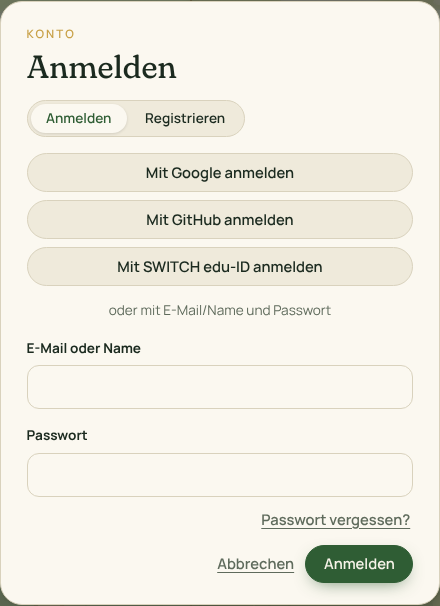
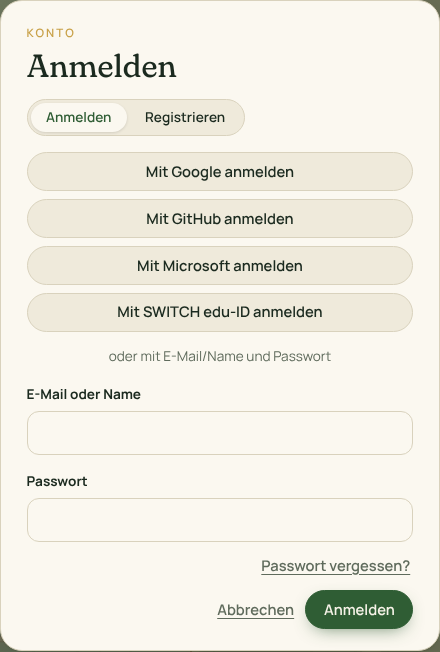
Sign in with Microsoft accounts
- Provider "microsoft" (MICROSOFT_CLIENT_ID / _SECRET, MICROSOFT_TENANT:
  common by default, or consumers, organizations, a tenant id).
- The profile comes from the ID token, received directly from the token
  endpoint over TLS; audience, expiry, issuer (login.microsoftonline.com
  with the token's tenant) and, with a fixed tenant, the tenant are checked.
- Microsoft sends no email_verified, and other tenants' admins can set any
  address (nOAuth): an address counts as verified only with the optional
  claim xms_edov (true, 1, "1"). Without it, Microsoft cannot create an
  account, only be linked to an existing one.
- Tests with a fake token endpoint (personal account, unverified work
  address, another app's token, wrong issuer, fixed tenant); docs with the
  app registration and the optional claims; login and menu screenshots.

Claude-Session: https://claude.ai/code/session_01W6iS2cPESEYEc9zQfDGaR4

diff --git a/src/oauth.js b/src/oauth.js
@@ -13,6 +13,14 @@
  *   (`<issuer>/.well-known/openid-configuration`, fetched once and checked
  *   against the configured issuer), the profile from its userinfo endpoint.
  *   An address counts as verified only with `email_verified: true`.
+ * - Microsoft (personal, work and school accounts): the profile comes from
+ *   the ID token, received directly from the token endpoint over TLS (so,
+ *   as OpenID Connect allows, without checking its signature; audience,
+ *   expiry, issuer and tenant are checked). Microsoft sends no
+ *   `email_verified`, and in other tenants anybody can enter any address
+ *   ("nOAuth"): the address counts as verified only with the optional claim
+ *   `xms_edov` (domain owner verified), which the app registration has to
+ *   add to the ID token together with `email`.
  *
  * A provider is enabled when its client ID and secret are configured. The
  * `state` and the PKCE verifier travel in a short-lived httpOnly cookie bound
@@ -82,6 +90,47 @@ Object.assign(PROVIDERS, {
   oidc: { label: 'OpenID Connect', scope: 'openid email profile', profile: oidcProfile },
 });
 
+const truthy = (v) => v === true || v === 1 || v === '1' || v === 'true';
+
+/** Profile from Microsoft's ID token; throws when the token does not belong to this app and tenant. */
+function microsoftProfile(token, get, provider, tokens) {
+  const parts = String(tokens?.id_token || '').split('.');
+  let c;
+  try {
+    c = JSON.parse(Buffer.from(parts[1] || '', 'base64url').toString('utf8'));
+  } catch {
+    throw new Error('Microsoft hat kein gültiges ID-Token geliefert');
+  }
+  const iss = /^https:\/\/login\.microsoftonline\.com\/([0-9a-f-]{36})\/v2\.0$/.exec(String(c.iss || ''));
+  const aud = Array.isArray(c.aud) ? c.aud : [c.aud];
+  const tenantFixed = /^[0-9a-f-]{36}$/.test(provider.tenant);
+  if (!iss || iss[1] !== c.tid || !aud.includes(provider.clientId) || !(Number(c.exp) * 1000 > Date.now() - 60_000)
+    || (tenantFixed && c.tid !== provider.tenant)) {
+    throw new Error('Microsoft hat ein ID-Token für eine andere Anwendung oder Organisation geliefert');
+  }
+  const email = c.email || null;
+  return {
+    subject: c.sub === undefined ? null : String(c.sub),
+    email,
+    emailVerified: Boolean(email) && truthy(c.xms_edov),
+    name: c.name || c.preferred_username || null,
+  };
+}
+
+// Microsoft: endpoints per tenant ('common' = personal and organisation accounts, 'organizations',
+// 'consumers' or one tenant's id).
+PROVIDERS.microsoft = {
+  label: 'Microsoft',
+  tenant: 'common',
+  scope: 'openid email profile',
+  extraParams: { prompt: 'select_account' },
+  urls: (p) => ({
+    authorizeUrl: `https://login.microsoftonline.com/${encodeURIComponent(p.tenant)}/oauth2/v2.0/authorize`,
+    tokenUrl: `https://login.microsoftonline.com/${encodeURIComponent(p.tenant)}/oauth2/v2.0/token`,
+  }),
+  profile: microsoftProfile,
+};
+
 const base64url = (buf) => Buffer.from(buf).toString('base64url');
 const sameIssuer = (a, b) => String(a || '').replace(/\/+$/, '') === String(b || '').replace(/\/+$/, '');
 
@@ -96,6 +145,7 @@ function createOAuth({ providers = {}, publicUrl = null, fetchImpl = fetch } = {
     if (!PROVIDERS[id] || !conf?.clientId || !conf?.clientSecret) continue;
     const p = { ...PROVIDERS[id], ...Object.fromEntries(Object.entries(conf).filter(([, v]) => v)), id };
     if (p.profile === oidcProfile && !p.issuer && !p.authorizeUrl) continue; // a generic provider needs its issuer
+    if (p.urls && !conf.authorizeUrl) Object.assign(p, p.urls(p));
     enabled[id] = p;
   }
 
@@ -198,7 +248,7 @@ function createOAuth({ providers = {}, publicUrl = null, fetchImpl = fetch } = {
       if (!res.ok || !tokens.access_token) {
         throw new Error(`${provider.label} hat die Anmeldung nicht bestätigt${tokens.error ? ` (${tokens.error})` : ''}`);
       }
-      const profile = await ep.profile(tokens.access_token, getJson, ep);
+      const profile = await ep.profile(tokens.access_token, getJson, ep, tokens);
       if (!profile.subject || profile.subject === 'undefined') throw new Error(`${provider.label} hat kein Konto geliefert`);
       return profile;
     },
@@ -206,9 +256,10 @@ function createOAuth({ providers = {}, publicUrl = null, fetchImpl = fetch } = {
 }
 
 /**
- * Provider configuration from the environment: GOOGLE_, GITHUB_, EDUID_ and
- * OIDC_CLIENT_ID / _CLIENT_SECRET; the generic provider also takes
- * OIDC_ISSUER and OIDC_LABEL (and EDUID_ISSUER may point to a test system).
+ * Provider configuration from the environment: GOOGLE_, GITHUB_, MICROSOFT_,
+ * EDUID_ and OIDC_CLIENT_ID / _CLIENT_SECRET; the generic provider also takes
+ * OIDC_ISSUER and OIDC_LABEL (EDUID_ISSUER may point to a test system), and
+ * MICROSOFT_TENANT limits the accounts (default 'common').
  */
 function providersFromEnv(env = process.env) {
   const out = {};
@@ -220,6 +271,7 @@ function providersFromEnv(env = process.env) {
         clientSecret: env[`${key}_CLIENT_SECRET`],
         issuer: env[`${key}_ISSUER`] || undefined,
         label: env[`${key}_LABEL`] || undefined,
+        tenant: env[`${key}_TENANT`] || undefined,
       };
     }
   }

diff --git a/test/oauth.test.js b/test/oauth.test.js
@@ -295,3 +295,61 @@ test('generic OpenID Connect provider from issuer and label; a wrong issuer is r
     assert.match(new URL(start.headers.get('location'), base).searchParams.get('auth_error'), /anderen Aussteller/);
   }, { providers, fetch: fakeOidc('https://login.example.org/realms/wald', { reportedIssuer: 'https://evil.example/' }) });
 });
+
+/** A fake Microsoft token endpoint that returns an (unsigned) ID token with the account's claims. */
+function fakeMicrosoft(claimsOf) {
+  const json = (body, status = 200) => new Response(JSON.stringify(body), { status, headers: { 'Content-Type': 'application/json' } });
+  const jwt = (claims) => ['{"alg":"RS256"}', JSON.stringify(claims), 'sig'].map((p, i) => (i < 2 ? Buffer.from(p).toString('base64url') : p)).join('.');
+  return (accounts, challenges) => async (url, init = {}) => {
+    const u = new URL(url);
+    if (u.host !== 'login.microsoftonline.com' || !u.pathname.endsWith('/oauth2/v2.0/token')) return json({}, 404);
+    const body = new URLSearchParams(init.body);
+    const challenge = crypto.createHash('sha256').update(body.get('code_verifier') || '').digest('base64url');
+    if (!claimsOf[body.get('code')] || !challenges.has(challenge) || body.get('client_secret') !== 'msecret') return json({ error: 'invalid_grant' }, 400);
+    return json({ access_token: 'at', id_token: jwt(claimsOf[body.get('code')]) });
+  };
+}
+
+const TENANT = '72f988bf-86f1-41af-91ab-2d7cd011db47';
+const CONSUMERS = '9188040d-6c67-4c5b-b112-36a304b66dad';
+const exp = () => Math.floor(Date.now() / 1000) + 600;
+const ms = (over) => ({ iss: `https://login.microsoftonline.com/${over.tid || CONSUMERS}/v2.0`, tid: CONSUMERS, aud: 'mid', exp: exp(), ...over });
+const MS = {
+  outlook: ms({ sub: 'ms-1', email: 'mia@outlook.com', name: 'Mia Bach', xms_edov: '1' }),
+  work: ms({ sub: 'ms-2', tid: TENANT, email: 'ceo@bank.example', name: 'Fremd', iss: `https://login.microsoftonline.com/${TENANT}/v2.0` }),
+  otherApp: ms({ sub: 'ms-3', email: 'x@outlook.com', aud: 'someone-else', xms_edov: true }),
+  wrongIss: ms({ sub: 'ms-4', email: 'y@outlook.com', xms_edov: true, iss: 'https://evil.example/v2.0' }),
+};
+
+test('Microsoft: profile from the ID token; only xms_edov makes the address verified', async () => {
+  const providers = { microsoft: { clientId: 'mid', clientSecret: 'msecret' } };
+  await withServer(MS, async (base, challenges) => {
+    const b = browser(base);
+    const start = await b.req('/api/auth/oauth/microsoft');
+    const auth = new URL(start.headers.get('location'));
+    assert.equal(auth.origin + auth.pathname, 'https://login.microsoftonline.com/common/oauth2/v2.0/authorize');
+
+    assert.equal((await b.signIn('microsoft', 'outlook', challenges)).searchParams.get('auth'), 'created');
+    const me = await b.me();
+    assert.equal(me.user.email, 'mia@outlook.com');
+    assert.equal(me.user.emailVerified, true);
+    assert.deepEqual(me.user.identities, ['microsoft']);
+
+    // An address set by some tenant's admin, without xms_edov: no account (nOAuth).
+    assert.match((await browser(base).signIn('microsoft', 'work', challenges)).searchParams.get('auth_error'), /bestätigte E-Mail/);
+    // Tokens for another app or from another issuer are refused.
+    assert.match((await browser(base).signIn('microsoft', 'otherApp', challenges)).searchParams.get('auth_error'), /andere Anwendung/);
+    assert.match((await browser(base).signIn('microsoft', 'wrongIss', challenges)).searchParams.get('auth_error'), /andere Anwendung/);
+  }, { providers, fetch: fakeMicrosoft(MS) });
+});
+
+test('Microsoft with a fixed tenant accepts only accounts of that organisation', async () => {
+  const providers = { microsoft: { clientId: 'mid', clientSecret: 'msecret', tenant: TENANT } };
+  const claims = { ...MS, work: { ...MS.work, xms_edov: 1 } };
+  await withServer(claims, async (base, challenges) => {
+    const start = await browser(base).req('/api/auth/oauth/microsoft');
+    assert.match(start.headers.get('location'), new RegExp(`/${TENANT}/oauth2/v2.0/authorize`));
+    assert.equal((await browser(base).signIn('microsoft', 'work', challenges)).searchParams.get('auth'), 'created');
+    assert.match((await browser(base).signIn('microsoft', 'outlook', challenges)).searchParams.get('auth_error'), /andere Anwendung oder Organisation/);
+  }, { providers, fetch: fakeMicrosoft(claims) });
+});

diff --git a/scripts/screenshots/demo-server.js b/scripts/screenshots/demo-server.js
@@ -104,10 +104,11 @@ const app = createApp({
   dataDir: path.join(process.env.DEMO_DIR || path.join(__dirname, '.demo'), 'data'),
   weatherFetch,
   tileOptions: { precompute: false },
-  // Sign-in buttons for the screenshots; the demo never talks to Google, GitHub or Switch.
+  // Sign-in buttons for the screenshots; the demo never talks to Google, GitHub, Microsoft or Switch.
   oauthProviders: {
     google: { clientId: 'demo', clientSecret: 'demo' },
     github: { clientId: 'demo', clientSecret: 'demo' },
+    microsoft: { clientId: 'demo', clientSecret: 'demo' },
     eduid: { clientId: 'demo', clientSecret: 'demo' },
   },
   mailer: { send: async () => ({ sent: true }) },

diff --git a/docs/installation.md b/docs/installation.md
@@ -48,8 +48,9 @@ trotzdem am richtigen Spot, nur ohne Overlay.
 | `REQUIRE_VERIFIED_EMAIL` | – | `1`: Uploads und Änderungen nur mit bestätigter E-Mail-Adresse (schliesst `REQUIRE_LOGIN` ein) |
 | `SMTP_URL`         | –        | Mailserver für Bestätigungslinks, z. B. `smtps://user:passwort@smtp.example.org` (siehe [unten](#e-mail-versand)); ohne ihn stehen die Links im Server-Log |
 | `MAIL_FROM`        | `MyForrest <no-reply@…>` | Absender der E-Mails |
-| `GOOGLE_CLIENT_ID`, `GOOGLE_CLIENT_SECRET` | – | Aktiviert „Mit Google anmelden“ (siehe [unten](#anmelden-über-google-github-und-switch-edu-id)) |
+| `GOOGLE_CLIENT_ID`, `GOOGLE_CLIENT_SECRET` | – | Aktiviert „Mit Google anmelden“ (siehe [unten](#anmelden-über-google-github-microsoft-und-switch-edu-id)) |
 | `GITHUB_CLIENT_ID`, `GITHUB_CLIENT_SECRET` | – | Aktiviert „Mit GitHub anmelden“ |
+| `MICROSOFT_CLIENT_ID`, `MICROSOFT_CLIENT_SECRET` | – | Aktiviert „Mit Microsoft anmelden“; `MICROSOFT_TENANT` (Standard `common`) schränkt ein: `consumers` (nur private Konten), `organizations` oder die ID eines Tenants |
 | `EDUID_CLIENT_ID`, `EDUID_CLIENT_SECRET` | – | Aktiviert „Mit SWITCH edu-ID anmelden“; `EDUID_ISSUER` (Standard `https://login.eduid.ch/`) für ein Testsystem |
 | `OIDC_ISSUER`, `OIDC_CLIENT_ID`, `OIDC_CLIENT_SECRET`, `OIDC_LABEL` | – | Ein weiterer OpenID-Connect-Dienst (z. B. Microsoft Entra ID einer Organisation, Keycloak) mit eigener Beschriftung |
 | `ROUTER_URL`       | `https://brouter.de/brouter` | Routing-Dienst im Format von [BRouter](https://brouter.de) für den Wege-Magnet beim Zeichnen von Touren; leer (`ROUTER_URL=`) = aus, dann gerade Linien. Für den Betrieb einen [eigenen BRouter](../deploy/brouter/README.md) nehmen, z. B. `http://brouter:17777/brouter` |
@@ -81,10 +82,10 @@ MAIL_FROM='MyForrest <wald@example.org>' npm start
 - Mit `REQUIRE_VERIFIED_EMAIL=1` können nur Konten mit bestätigter Adresse Fotos beitragen und ändern.
   Konten aus der Zeit vor dieser Funktion fordern ihren Link im Konto-Menü an.
 
-## Anmelden über Google, GitHub und SWITCH edu-ID
+## Anmelden über Google, GitHub, Microsoft und SWITCH edu-ID
 
 Neben E-Mail und Passwort kann man sich mit einem Google-, GitHub- oder SWITCH-edu-ID-Konto anmelden oder
-registrieren, und mit einem weiteren Dienst, der OpenID Connect spricht.
+registrieren, mit einem Microsoft-Konto und mit einem weiteren Dienst, der OpenID Connect spricht.
 Ein Anbieter erscheint im Anmeldedialog, sobald Client-ID und Secret gesetzt sind. Die Rücksprungadresse
 lautet `<PUBLIC_URL>/api/auth/oauth/<anbieter>/callback`; ohne `PUBLIC_URL` wird sie aus der Anfrage
 gebildet. Sie muss beim Anbieter genau so eingetragen sein.
@@ -94,6 +95,15 @@ gebildet. Sie muss beim Anbieter genau so eingetragen sein.
   `https://example.org/api/auth/oauth/google/callback` eintragen. Bereiche: `openid`, `email`, `profile`.
 - *GitHub*: Unter *Settings → Developer settings → [OAuth Apps](https://github.com/settings/developers)*
   eine App anlegen, *Authorization callback URL* `https://example.org/api/auth/oauth/github/callback`.
+- *Microsoft* (Outlook, Hotmail, Live sowie Arbeits- und Schulkonten): Im
+  [Microsoft Entra Admin Center](https://entra.microsoft.com) unter *App-Registrierungen* eine App anlegen,
+  Kontotypen „Konten in einem beliebigen Organisationsverzeichnis und persönliche Microsoft-Konten“ (oder enger,
+  passend zu `MICROSOFT_TENANT`), Umleitungs-URI (Web) `https://example.org/api/auth/oauth/microsoft/callback`,
+  unter *Zertifikate & Geheimnisse* ein Client-Secret. **Wichtig:** Unter *Tokenkonfiguration → Optionalen
+  Anspruch hinzufügen → ID* die Ansprüche `email` und `xms_edov` hinzufügen (eine Warnung, `xms_edov` sei
+  unbekannt, lässt sich ignorieren). Microsoft liefert kein `email_verified`, und in fremden Tenants kann ein
+  Admin beliebige Adressen eintragen („nOAuth“); als bestätigt gilt eine Adresse deshalb nur mit
+  `xms_edov`. Ohne diesen Anspruch entsteht über Microsoft kein neues Konto, Verknüpfen geht aber.
 - *SWITCH edu-ID* (Hochschulen, Forschung, aber für alle offen): Den Dienst in der
   [SWITCH Resource Registry](https://rr.aai.switch.ch/) als OpenID-Connect-Client registrieren, Redirect-URI
   `https://example.org/api/auth/oauth/eduid/callback`, Claims *E-Mail* (mit `email_verified`) und *Name* als
@@ -103,13 +113,14 @@ gebildet. Sie muss beim Anbieter genau so eingetragen sein.
 - *Weitere Dienste* (`OIDC_…`): `OIDC_ISSUER` ist die Adresse, unter der
   `/.well-known/openid-configuration` liegt; `OIDC_LABEL` steht auf dem Knopf („Mit … anmelden“).
   Redirect-URI `https://example.org/api/auth/oauth/oidc/callback`. Ein neues Konto entsteht nur mit
-  `email_verified: true`; Dienste, die das nicht liefern (etwa Microsoft Entra ID), lassen sich trotzdem mit
-  einem bestehenden Konto verknüpfen und dann zum Anmelden nutzen.
+  `email_verified: true`; Dienste, die das nicht liefern, lassen sich trotzdem mit einem bestehenden Konto
+  verknüpfen und dann zum Anmelden nutzen. Für Microsoft den eigenen Anbieter oben nehmen.
 
 ```bash
 PUBLIC_URL=https://example.org \
 GOOGLE_CLIENT_ID=… GOOGLE_CLIENT_SECRET=… \
 GITHUB_CLIENT_ID=… GITHUB_CLIENT_SECRET=… \
+MICROSOFT_CLIENT_ID=… MICROSOFT_CLIENT_SECRET=… \
 EDUID_CLIENT_ID=… EDUID_CLIENT_SECRET=… npm start
 ```
 

diff --git a/README.md b/README.md
@@ -259,7 +259,7 @@ leitet die **Organisation** und nimmt Kolleginnen und Kollegen auf; wer noch kei
 **Einladung per E-Mail** und registriert sich über den Link. Mitglieder sehen geschützte Funde, solange eine
 Person der Leitung verifiziert ist, und die Leitung lässt sich weitergeben.
 
-### 12. Konto: E-Mail, Google, GitHub oder SWITCH edu-ID
+### 12. Konto: E-Mail, Google, GitHub, Microsoft oder SWITCH edu-ID
 
 <p>
   <img src="docs/screenshots/anmelden.png" width="38%" alt="Anmeldedialog mit Google, GitHub und E-Mail">
@@ -267,10 +267,10 @@ Person der Leitung verifiziert ist, und die Leitung lässt sich weitergeben.
   <img src="docs/screenshots/konto-loeschen.png" width="38%" alt="Konto löschen mit der Wahl, die Fotos anonym zu behalten oder zu löschen">
 </p>
 
-Ein **Konto** legt man mit E-Mail und Passwort an oder mit einem Klick über **Google**, **GitHub** oder **SWITCH edu-ID**
+Ein **Konto** legt man mit E-Mail und Passwort an oder mit einem Klick über **Google**, **GitHub**, **Microsoft** oder **SWITCH edu-ID**
 (links). Nach der Registrierung kommt ein **Bestätigungslink** per E-Mail; bis dahin erinnert das Konto-Menü
 daran (Mitte). Ein vergessenes Passwort lässt sich per Link **zurücksetzen**, im Menü **ändern**, und
-Google, GitHub oder SWITCH edu-ID lassen sich mit einem bestehenden Konto **verknüpfen**. Wer geht, **löscht das Konto**
+Google, GitHub, Microsoft oder SWITCH edu-ID lassen sich mit einem bestehenden Konto **verknüpfen**. Wer geht, **löscht das Konto**
 selbst und entscheidet dabei, ob die eigenen Fotos anonym bleiben oder mitgelöscht werden (rechts). Uploads ohne Konto bleiben
 möglich, ausser der Betrieb verlangt eines (`REQUIRE_LOGIN`) oder eine bestätigte Adresse
 (`REQUIRE_VERIFIED_EMAIL`).
@@ -321,7 +321,7 @@ Ein kurzer Überblick. Alle Details, auch zu den verwendeten Verfahren, stehen u
   Organisationen nehmen ihre Mitglieder selbst auf.
 - **[Fahrtmodus](docs/funktionen.md#fahrtmodus-dashcam-im-auto)**: das Handy als Dashcam im Auto, Route
   automatisch, Bilder an Spots und alle 150 m, Stillstand und Doppelte werden schon auf dem Gerät verworfen.
-- **[Konten und Moderation](docs/funktionen.md#konten-moderation-und-lizenzen)**: Konten mit Rollen, Anmeldung mit E-Mail (Bestätigungslink, Passwort ändern und zurücksetzen, Konto löschen, Profil mit den eigenen Fotos, Export der eigenen Daten) oder über Google, GitHub, SWITCH edu-ID und weitere OpenID-Connect-Dienste,
+- **[Konten und Moderation](docs/funktionen.md#konten-moderation-und-lizenzen)**: Konten mit Rollen, Anmeldung mit E-Mail (Bestätigungslink, Passwort ändern und zurücksetzen, Konto löschen, Profil mit den eigenen Fotos, Export der eigenen Daten) oder über Google, GitHub, Microsoft, SWITCH edu-ID und weitere OpenID-Connect-Dienste,
   Lizenz pro Foto, Melden und Moderieren.
 
 ## Schnellstart

diff --git a/docs/funktionen.md b/docs/funktionen.md
@@ -959,10 +959,13 @@ prüfen lassen muss, gibt es **Organisationen**:
   Geräte werden abgemeldet, offene Links zum Zurücksetzen verfallen, und das Konto bekommt eine Hinweis-E-Mail
   („Warst du das nicht?“). Konten ohne Passwort (aus Google oder GitHub) sehen stattdessen *Passwort
   festlegen*, das einen Link zum Zurücksetzen an die eigene Adresse schickt.
-- *Anmelden mit Google, GitHub, SWITCH edu-ID*: Ist ein Anbieter eingerichtet (siehe
-  [Installation](installation.md#anmelden-über-google-github-und-switch-edu-id)), zeigt der Dialog „Mit Google anmelden“, „Mit GitHub anmelden“,
+- *Anmelden mit Google, GitHub, Microsoft, SWITCH edu-ID*: Ist ein Anbieter eingerichtet (siehe
+  [Installation](installation.md#anmelden-über-google-github-microsoft-und-switch-edu-id)), zeigt der Dialog „Mit Google anmelden“, „Mit GitHub anmelden“,
   „Mit SWITCH edu-ID anmelden“ bzw. den Namen eines weiteren OpenID-Connect-Dienstes. Bei edu-ID und weiteren
-  Diensten liest die App die Endpunkte aus deren Discovery-Dokument und prüft, dass der Aussteller stimmt. Der Ablauf ist OAuth 2.0 mit PKCE; `state` und Verifier liegen in einem
+  Diensten liest die App die Endpunkte aus deren Discovery-Dokument und prüft, dass der Aussteller stimmt.
+  Bei Microsoft kommen die Angaben aus dem ID-Token (Empfänger, Ablauf, Aussteller und Tenant geprüft); die
+  Adresse gilt nur mit dem Anspruch `xms_edov` als bestätigt, sonst könnte ein fremder Tenant fremde Adressen
+  vorgeben. Der Ablauf ist OAuth 2.0 mit PKCE; `state` und Verifier liegen in einem
   kurzlebigen httpOnly-Cookie, ein fremder oder abgelaufener Rücksprung wird abgewiesen. Beim ersten Mal
   entsteht ein Konto ohne Passwort mit der vom Anbieter **bestätigten** E-Mail-Adresse (ohne bestätigte
   Adresse keine Registrierung); der Name kommt vom Anbieter und lässt sich durch eine Zahl eindeutig machen.

diff --git a/docs/roadmap.md b/docs/roadmap.md
@@ -20,7 +20,6 @@ Was als Nächstes geplant ist. Was der Prototyp heute schon kann, steht unter
 - **Touren**: FIT-Dateien direkt lesen, Höhenprofil der Route, Abgleich mit Strava/Komoot per OAuth,
   Aufzeichnung im Hintergrund (braucht eine native Hülle, Browser stoppen GPS im Hintergrund),
   Benachrichtigung, wenn ein eigener Fotoauftrag erledigt wurde, Ablaufdatum für Aufträge.
-- **Konten ausbauen**: Microsoft-Konten direkt (braucht eine verlässliche Prüfung der E-Mail-Adresse).
 
 ## Phase 3: Automatische Auswertung
 
@@ -82,4 +81,4 @@ Aus früheren Versionen dieser Roadmap:
 - Geodienste: OGC API – Features und Tiles (auch im LV95-Kachelgitter, vorberechnet, PMTiles/MBTiles),
   Vektorkarten, QGIS Server, Metadaten für geocat.ch (GM03)
 - Betrieb mit Docker Compose und Kubernetes (podman-Startskript)
-- Konten: Anmelden mit Google und GitHub, E-Mail bestätigen, Passwort zurücksetzen und ändern, Konto löschen, Profilseite mit eigenen Fotos, Anzeigename und E-Mail-Adresse ändern, Export der eigenen Daten, SWITCH edu-ID und weitere OpenID-Connect-Dienste, dauerhafte Rate-Limits
+- Konten: Anmelden mit Google und GitHub, E-Mail bestätigen, Passwort zurücksetzen und ändern, Konto löschen, Profilseite mit eigenen Fotos, Anzeigename und E-Mail-Adresse ändern, Export der eigenen Daten, Microsoft, SWITCH edu-ID und weitere OpenID-Connect-Dienste, dauerhafte Rate-Limits

diff --git a/docs/api.md b/docs/api.md
@@ -73,7 +73,7 @@ Alle Routen liefern und erwarten JSON, sofern nicht anders angegeben. Den Aufbau
 | `POST`   | `/api/auth/password/change`  | Angemeldet: Passwort ändern (`{ current, password }`); beendet die anderen Sitzungen, Hinweis per E-Mail |
 | `GET`    | `/api/auth/password/reset?token=` | Prüft einen Link: `{ name, email }` oder 400 |
 | `POST`   | `/api/auth/password/reset`   | Neues Passwort setzen (`{ token, password }`): beendet alle Sitzungen und meldet an |
-| `GET`    | `/api/auth/oauth/:provider`  | Anmelden mit `google`, `github`, `eduid` oder `oidc`: leitet zum Anbieter weiter |
+| `GET`    | `/api/auth/oauth/:provider`  | Anmelden mit `google`, `github`, `microsoft`, `eduid` oder `oidc`: leitet zum Anbieter weiter |
 | `GET`    | `/api/auth/oauth/:provider/callback` | Rückkehr vom Anbieter: meldet an, legt ein Konto an oder verknüpft (mit Sitzung); leitet nach `/?auth=ok\|created\|linked` bzw. `/?auth_error=…` |
 | `DELETE` | `/api/auth/identities/:provider` | Anmeldung über einen Anbieter vom eigenen Konto trennen (nicht die einzige) |
 | `POST`   | `/api/tracks/parse`          | GPX, TCX, KML oder GeoJSON lesen (`{ text, filename }`), ohne zu speichern: Punkte, Name, Format, Länge |

diff --git a/docs/architektur.md b/docs/architektur.md
@@ -69,7 +69,7 @@ src/metadata.js      Metadatensatz nach ISO 19139 und GM03 (ISO19139.che) für g
 src/routes/ogc-tiles.js  OGC API – Tiles (WebMercatorQuad und SwissLV95) und MapLibre-Stil
 src/auth.js          Konten, Passwort-Hashing (scrypt), Sitzungen, Rate-Limits (dauerhaft in SQLite)
 src/orgs.js          Organisationen mit Leitung und Mitgliedern; gelten, solange eine Person der Leitung verifiziert ist
-src/oauth.js         Anmelden mit Google, GitHub, SWITCH edu-ID und weiteren OpenID-Connect-Diensten (OAuth 2.0 mit PKCE, Discovery), ohne Abhängigkeiten
+src/oauth.js         Anmelden mit Google, GitHub, Microsoft, SWITCH edu-ID und weiteren OpenID-Connect-Diensten (OAuth 2.0 mit PKCE, Discovery), ohne Abhängigkeiten
 src/mail.js          E-Mail-Versand über SMTP (TLS/STARTTLS, AUTH PLAIN) für Bestätigungs- und Reset-Links
 src/moderation.js    Lizenzen, Meldungen, Ausblenden und Protokoll
 src/routes/accounts.js  Routen für Konten und Moderation, CSRF-Schutz, Rechte auf Fotos

diff --git a/docs/betrieb.md b/docs/betrieb.md
@@ -5,7 +5,7 @@
 - Ohne `REQUIRE_LOGIN=1` lassen sich anonym hochgeladene Fotos von allen bearbeiten und löschen, wie bisher
   im Prototyp. Für einen öffentlichen Betrieb `REQUIRE_LOGIN=1` setzen und hinter HTTPS betreiben (das
   Sitzungs-Cookie erhält `Secure`, wenn die Anfrage über HTTPS bzw. `X-Forwarded-Proto: https` kommt).
-- Mit Anmeldung über Google, GitHub, SWITCH edu-ID oder einen weiteren Dienst erhalten diese Dienste beim Anmelden die Information, dass sich
+- Mit Anmeldung über Google, GitHub, Microsoft, SWITCH edu-ID oder einen weiteren Dienst erhalten diese Dienste beim Anmelden die Information, dass sich
   jemand bei dieser Instanz anmeldet; MyForrest speichert vom Anbieter nur die Konto-Kennung, die E-Mail-Adresse
   und den Namen. Client-Secrets und `SMTP_URL` (enthält das Mail-Passwort) gehören in Secrets, nicht in
   Repository oder ConfigMap.
